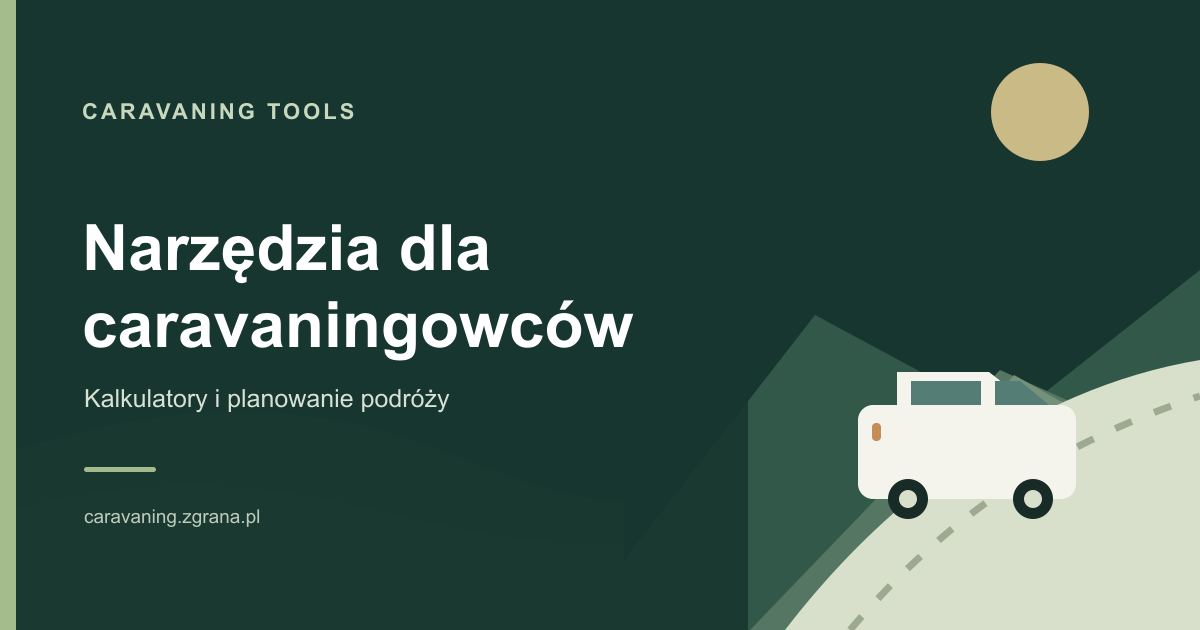
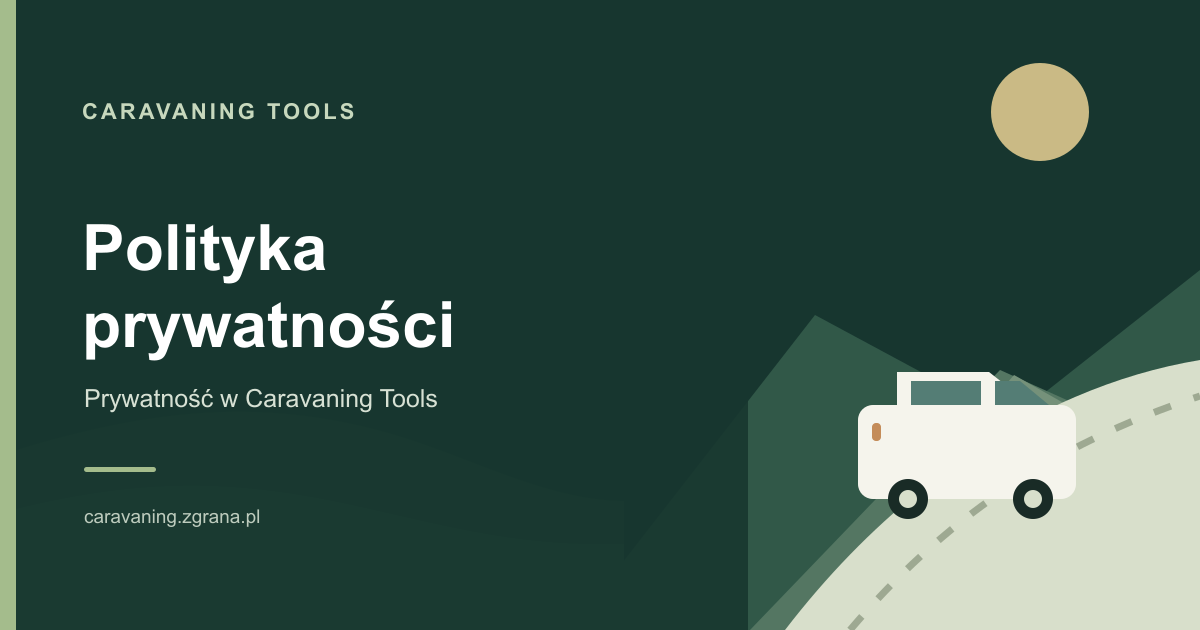
Polityka prywatnosci

Changed region(s): [[0.0617, 0.4825, 0.5242, 0.573], [0.0617, 0.3317, 0.4317, 0.4524], [0.0617, 0.6032, 0.37, 0.6635]]

diff --git a/src/views/PrivacyPolicyView.vue b/src/views/PrivacyPolicyView.vue
@@ -1,0 +1,160 @@
+<script setup lang="ts">
+import { ArrowLeft } from '@lucide/vue'
+import { RouterLink } from 'vue-router'
+import { siteName, siteUrl, usePageSeo } from '@/seo/usePageSeo'
+
+usePageSeo('privacy', {
+  '@context': 'https://schema.org',
+  '@type': 'WebPage',
+  name: 'Polityka Prywatności',
+  description:
+    'Informacje o prywatności i przetwarzaniu danych podczas korzystania z Caravaning Tools.',
+  url: `${siteUrl}/polityka-prywatnosci`,
+  inLanguage: 'pl-PL',
+  isPartOf: { '@type': 'WebSite', name: siteName, url: siteUrl },
+})
+</script>
+
+<template>
+  <article class="mx-auto max-w-4xl px-4 py-10 sm:px-6 sm:py-14 lg:px-8">
+    <RouterLink
+      to="/"
+      class="mb-8 inline-flex items-center gap-2 text-sm text-muted-foreground transition-colors hover:text-foreground"
+    >
+      <ArrowLeft class="size-4" aria-hidden="true" />
+      Strona główna
+    </RouterLink>
+
+    <header class="border-b border-border pb-8">
+      <p class="text-sm font-semibold text-primary">Caravaning Tools</p>
+      <h1 class="mt-2 font-heading text-3xl font-bold tracking-normal sm:text-4xl">
+        Polityka Prywatności
+      </h1>
+      <p class="mt-3 text-sm text-muted-foreground">
+        Data obowiązywania:
+        <time datetime="2026-09-27">27 września 2026 r.</time>
+      </p>
+    </header>
+
+    <div class="divide-y divide-border">
+      <section class="py-7">
+        <h2 class="font-heading text-xl font-semibold tracking-normal">1. Informacje ogólne</h2>
+        <p class="mt-3 text-sm leading-7 text-muted-foreground">
+          Niniejsza Polityka Prywatności określa zasady korzystania ze strony internetowej
+          caravaning.zgrana.pl oraz sposób przetwarzania informacji związanych z jej użytkowaniem.
+        </p>
+        <p class="mt-3 text-sm leading-7 text-muted-foreground">
+          Administrator dokłada należytej staranności, aby chronić prywatność użytkowników
+          odwiedzających serwis.
+        </p>
+      </section>
+
+      <section class="py-7">
+        <h2 class="font-heading text-xl font-semibold tracking-normal">2. Zakres przetwarzanych danych</h2>
+        <p class="mt-3 text-sm leading-7 text-muted-foreground">
+          Podczas korzystania ze strony mogą być przetwarzane podstawowe informacje techniczne
+          związane z wyświetlaniem strony internetowej, takie jak:
+        </p>
+        <ul class="mt-3 list-disc space-y-2 pl-5 text-sm leading-6 text-muted-foreground">
+          <li>adres odwiedzanej strony,</li>
+          <li>data i godzina wizyty,</li>
+          <li>informacje o urządzeniu i przeglądarce,</li>
+          <li>informacje o wydajności i czasie ładowania strony,</li>
+          <li>kraj, z którego nastąpiło połączenie.</li>
+        </ul>
+        <p class="mt-3 text-sm leading-7 text-muted-foreground">
+          Dane te wykorzystywane są wyłącznie do celów statystycznych, analitycznych oraz poprawy
+          działania serwisu.
+        </p>
+      </section>
+
+      <section class="py-7">
+        <h2 class="font-heading text-xl font-semibold tracking-normal">3. Cloudflare Web Analytics</h2>
+        <p class="mt-3 text-sm leading-7 text-muted-foreground">
+          Serwis korzysta z usługi Cloudflare Web Analytics dostarczanej przez Cloudflare, Inc.
+        </p>
+        <p class="mt-3 text-sm leading-7 text-muted-foreground">
+          Cloudflare Web Analytics służy do analizy ruchu na stronie internetowej oraz monitorowania
+          jej wydajności. Według dokumentacji producenta rozwiązanie to zostało zaprojektowane w
+          sposób uwzględniający prywatność użytkowników i nie wykorzystuje plików cookies,
+          localStorage ani technik fingerprintingu do celów analitycznych.
+        </p>
+        <p class="mt-3 text-sm leading-7 text-muted-foreground">
+          Cloudflare wskazuje również, że Web Analytics nie służy do śledzenia użytkowników pomiędzy
+          stronami internetowymi ani do tworzenia profili użytkowników.
+        </p>
+        <p class="mt-3 text-sm leading-7 text-muted-foreground">
+          Dane statystyczne prezentowane są administratorowi w postaci zbiorczych raportów i służą
+          wyłącznie do analizy popularności treści oraz jakości działania serwisu.
+        </p>
+      </section>
+
+      <section class="py-7">
+        <h2 class="font-heading text-xl font-semibold tracking-normal">4. Pliki cookies</h2>
+        <p class="mt-3 text-sm leading-7 text-muted-foreground">
+          Strona nie wykorzystuje plików cookies do celów analitycznych realizowanych przez Cloudflare
+          Web Analytics.
+        </p>
+        <p class="mt-3 text-sm leading-7 text-muted-foreground">
+          Niezależnie od powyższego infrastruktura Cloudflare może wykorzystywać techniczne pliki
+          cookies niezbędne do zapewnienia bezpieczeństwa, ochrony przed nadużyciami lub prawidłowego
+          działania usług sieciowych. Szczegółowe informacje znajdują się w dokumentacji Cloudflare.
+        </p>
+      </section>
+
+      <section class="py-7">
+        <h2 class="font-heading text-xl font-semibold tracking-normal">5. Odbiorcy danych</h2>
+        <p class="mt-3 text-sm leading-7 text-muted-foreground">
+          Dostawcą infrastruktury technicznej oraz narzędzia analitycznego jest Cloudflare, Inc.
+        </p>
+        <p class="mt-3 text-sm leading-7 text-muted-foreground">
+          Informacje dotyczące sposobu przetwarzania danych przez Cloudflare można znaleźć na stronie:
+        </p>
+        <a
+          href="https://www.cloudflare.com/privacypolicy"
+          target="_blank"
+          rel="noreferrer"
+          class="mt-2 inline-flex break-all text-sm font-medium text-primary underline underline-offset-4"
+        >
+          https://www.cloudflare.com/privacypolicy
+        </a>
+      </section>
+
+      <section class="py-7">
+        <h2 class="font-heading text-xl font-semibold tracking-normal">6. Bezpieczeństwo</h2>
+        <p class="mt-3 text-sm leading-7 text-muted-foreground">
+          Administrator stosuje środki techniczne i organizacyjne mające na celu ochronę serwisu
+          przed nieuprawnionym dostępem, utratą danych lub innymi zagrożeniami.
+        </p>
+        <p class="mt-3 text-sm leading-7 text-muted-foreground">
+          Połączenie ze stroną realizowane jest z wykorzystaniem szyfrowania HTTPS.
+        </p>
+      </section>
+
+      <section class="py-7">
+        <h2 class="font-heading text-xl font-semibold tracking-normal">7. Zmiany Polityki Prywatności</h2>
+        <p class="mt-3 text-sm leading-7 text-muted-foreground">
+          Polityka Prywatności może być aktualizowana w przypadku zmian funkcjonalności serwisu, zmian
+          prawnych lub zmian dostawców usług wykorzystywanych przez stronę.
+        </p>
+        <p class="mt-3 text-sm leading-7 text-muted-foreground">
+          Aktualna wersja dokumentu jest zawsze publikowana pod adresem:
+        </p>
+        <a
+          href="https://caravaning.zgrana.pl/polityka-prywatnosci"
+          class="mt-2 inline-flex break-all text-sm font-medium text-primary underline underline-offset-4"
+        >
+          https://caravaning.zgrana.pl/polityka-prywatnosci
+        </a>
+      </section>
+
+      <section class="py-7">
+        <h2 class="font-heading text-xl font-semibold tracking-normal">8. Kontakt</h2>
+        <p class="mt-3 text-sm leading-7 text-muted-foreground">
+          W sprawach związanych z funkcjonowaniem serwisu można skontaktować się z administratorem za
+          pośrednictwem danych kontaktowych publikowanych w serwisie.
+        </p>
+      </section>
+    </div>
+  </article>
+</template>

diff --git a/src/components/AppFooter.vue b/src/components/AppFooter.vue
@@ -17,21 +17,18 @@ import { Caravan } from '@lucide/vue'
           Praktyczne narzędzia, które pomagają lepiej przygotować się do drogi i podróżować
           spokojniej.
         </p>
-        <p id="prywatnosc" class="mt-3 text-xs leading-5 text-muted-foreground">
+        <p class="mt-3 text-xs leading-5 text-muted-foreground">
           Dane wpisane do kalkulatorów są przetwarzane w przeglądarce i nie są zapisywane.
         </p>
       </div>
 
       <nav aria-label="Linki w stopce" class="flex flex-wrap gap-x-6 gap-y-3 text-sm">
-        <a
-          href="mailto:kontakt@caravaning.tools"
-          class="text-muted-foreground hover:text-foreground"
-        >
+        <a href="mailto:kontakt@zgrana.pl" class="text-muted-foreground hover:text-foreground">
           Kontakt
         </a>
-        <a href="#prywatnosc" class="text-muted-foreground hover:text-foreground">
+        <RouterLink to="/polityka-prywatnosci" class="text-muted-foreground hover:text-foreground">
           Polityka prywatności
-        </a>
+        </RouterLink>
       </nav>
     </div>
     <div class="border-t border-border/70">

diff --git a/vite.config.ts b/vite.config.ts
@@ -24,6 +24,6 @@ const config: UserConfig & { ssgOptions: ViteSSGOptions } = {
 
 export default defineConfig(({ mode }) => {
   config.appType = mode === 'production' ? 'mpa' : 'spa'
-  config.ssgOptions.includedRoutes = () => ['/', '/kalkulator-dmc']
+  config.ssgOptions.includedRoutes = () => siteConfig.pages.map(({ path }) => path)
   return config
 })

diff --git a/src/router/index.ts b/src/router/index.ts
@@ -11,4 +11,9 @@ export const routes: RouteRecordRaw[] = [
     name: 'kalkulator-dmc',
     component: () => import('@/views/tools/DmcCalculatorView.vue'),
   },
+  {
+    path: '/polityka-prywatnosci',
+    name: 'polityka-prywatnosci',
+    component: () => import('@/views/PrivacyPolicyView.vue'),
+  },
 ]

diff --git a/src/seo/usePageSeo.ts b/src/seo/usePageSeo.ts
@@ -1,7 +1,7 @@
 import { useHead, useSeoMeta } from '@unhead/vue'
 import siteConfig from './site-config.json'
 
-export type SeoPageKey = 'home' | 'dmc'
+export type SeoPageKey = 'home' | 'dmc' | 'privacy'
 
 interface SitePageSeo {
   key: SeoPageKey
